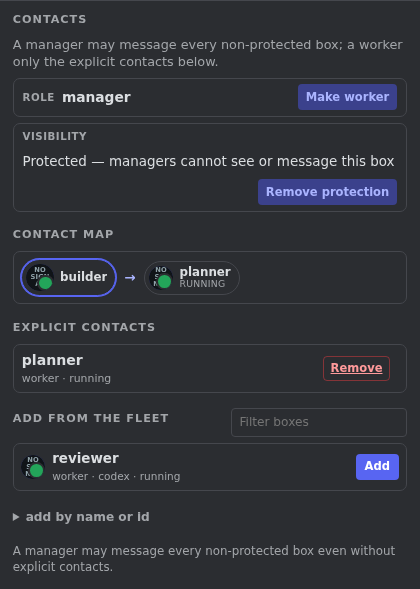
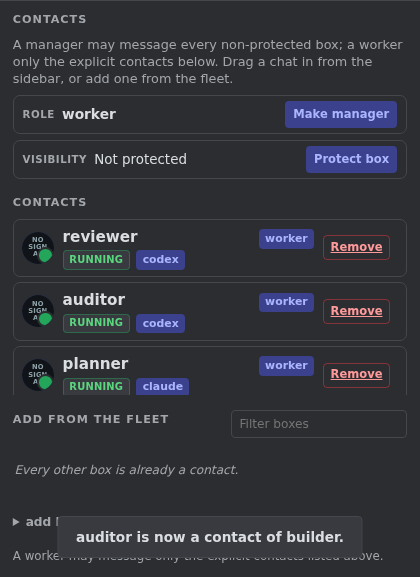
Contacts as a droppable list and Lucide delivery ticks
Right side now mirrors the chats sidebar: contacts render as list rows
(avatar, name, role, state, agent) instead of the chip map. Drag any chat
row from the sidebar onto the open details drawer to add it as a contact
of the box in view; the fleet picker Add button stays as the click path.

Message delivery ticks switch from emoji to inline Lucide icons (clock,
check, check-check, triangle-alert, circle-help).

The browser test drives the list, drag highlight, drop, picker and
context menu, asserts the Lucide tick, and writes a screenshot per case.

Changed region(s): [[0.031, 0.0624, 0.9595, 0.8423], [0.031, 0.8735, 0.9286, 0.9983], [0.5571, 0.6863, 0.9595, 0.8423]]

diff --git a/internal/controller/web/chat.js b/internal/controller/web/chat.js
@@ -675,6 +675,15 @@
    let row=rows.get(box.id);
    if(!row){
     row=document.createElement('li');row.dataset.boxId=box.id;
+    row.draggable=true;
+    row.addEventListener('dragstart',event=>{
+     if(!owner||!selected||selected===box.id){event.preventDefault();return}
+     event.dataTransfer.setData('application/x-vmbox-box',box.id);
+     event.dataTransfer.setData('text/plain',box.name);
+     event.dataTransfer.effectAllowed='copy';
+     row.classList.add('dragging');
+    });
+    row.addEventListener('dragend',()=>row.classList.remove('dragging'));
     row.oncontextmenu=event=>{event.preventDefault();openRowMenu(box,{left:event.clientX,right:event.clientX,bottom:event.clientY+4,top:event.clientY})};
     const meta=document.createElement('div');meta.className='chat-meta';
     const r1=document.createElement('div');r1.className='row1';const name=document.createElement('span');name.className='name';name.textContent=box.name;const state=document.createElement('span');state.className='row-state';const time=document.createElement('time');r1.append(name,time);
@@ -707,7 +716,23 @@
 
  /* ---------- messages ---------- */
  const dayLabel=value=>{const d=new Date(value),now=new Date();if(d.toDateString()===now.toDateString())return 'Today';const y=new Date(now);y.setDate(now.getDate()-1);if(d.toDateString()===y.toDateString())return 'Yesterday';return d.toLocaleDateString([],{day:'numeric',month:'long',year:'numeric'})};
- const stateTicks={queued:'🕐',delivering:'✓',delivered:'✓✓',failed:'⚠ failed',ambiguous:'⚠ maybe failed'};
+ const stateTicks={queued:'queued',delivering:'sent',delivered:'delivered',failed:'failed',ambiguous:'maybe failed'};
+ const stateIconName={queued:'clock',delivering:'check',delivered:'check-check',failed:'alert',ambiguous:'help'};
+ // Inline Lucide icons (24x24, currentColor stroke) so delivery state reads as
+ // iconography instead of emoji glyphs.
+ const lucideShapes={
+  clock:[['circle',{cx:'12',cy:'12',r:'10'}],['polyline',{points:'12 6 12 12 16 14'}]],
+  check:[['path',{d:'M20 6 9 17l-5-5'}]],
+  'check-check':[['path',{d:'M18 6 7 17l-5-5'}],['path',{d:'m22 10-7.5 7.5L13 16'}]],
+  alert:[['path',{d:'m21.73 18-8-14a2 2 0 0 0-3.48 0l-8 14A2 2 0 0 0 4 21h16a2 2 0 0 0 1.73-3'}],['path',{d:'M12 9v4'}],['path',{d:'M12 17h.01'}]],
+  help:[['circle',{cx:'12',cy:'12',r:'10'}],['path',{d:'M9.09 9a3 3 0 0 1 5.83 1c0 2-3 3-3 3'}],['path',{d:'M12 17h.01'}]],
+ };
+ function lucide(name){
+  const svg=document.createElementNS('http://www.w3.org/2000/svg','svg');
+  for(const [key,value] of Object.entries({viewBox:'0 0 24 24',fill:'none',stroke:'currentColor','stroke-width':'2','stroke-linecap':'round','stroke-linejoin':'round','aria-hidden':'true'}))svg.setAttribute(key,value);
+  for(const [tag,attrs] of lucideShapes[name]||[]){const el=document.createElementNS('http://www.w3.org/2000/svg',tag);for(const key in attrs)el.setAttribute(key,attrs[key]);svg.append(el)}
+  return svg;
+ }
  function imageURL(message,image){
   const key=message.id+':'+image.id;
   if(imageURLs.has(key))return Promise.resolve(imageURLs.get(key));
@@ -797,7 +822,14 @@
   const form=questionForm(box,message);if(form)row.append(form);
   const meta=document.createElement('span');meta.className='meta';
   meta.append(Object.assign(document.createElement('time'),{textContent:new Date(message.createdAt).toLocaleTimeString([],{hour:'2-digit',minute:'2-digit'})}));
-  if(mine&&message.state!=='silent'){const ticks=document.createElement('span');ticks.className='ticks'+(message.state==='failed'||message.state==='ambiguous'?' failed':'');ticks.textContent=stateTicks[message.state]||'';meta.append(ticks)}
+  if(mine&&message.state!=='silent'){
+   const ticks=document.createElement('span');ticks.className='ticks'+(message.state==='failed'||message.state==='ambiguous'?' failed':'');
+   ticks.title=stateTicks[message.state]||'';
+   const icon=stateIconName[message.state];
+   if(icon)ticks.append(lucide(icon));
+   if(message.state==='failed'||message.state==='ambiguous')ticks.append(document.createTextNode(message.state==='failed'?'failed':'maybe failed'));
+   meta.append(ticks);
+  }
   row.append(meta);
   const fwd=document.createElement('button');fwd.type='button';fwd.className='fwd';fwd.title='Forward to another box';fwd.textContent='↪';
   fwd.onclick=event=>{event.stopPropagation();openForwardMenu(fwd,message)};
@@ -1248,29 +1280,6 @@
   const known=boxes.get(contact.contactBoxId)||{};
   return {id:contact.contactBoxId||contact.contactName,name:contact.contactName||known.name||'—',state:contact.contactState||known.state||'unknown',role:contact.contactRole||known.role||'worker',defaultAgent:contact.contactAgent||known.defaultAgent||''};
  };
- function graphNode(view,{center=false,contact=false}={}){
-  const node=document.createElement('div');node.className='cg-node'+(center?' cg-center':'');
-  node.append(avatarNode(view,true));
-  const text=document.createElement('span');text.className='cg-text';
-  const label=document.createElement('span');label.className='cg-label';label.textContent=view.name;label.title=view.name;text.append(label);
-  if(contact){const sub=document.createElement('span');sub.className='cg-sub';sub.textContent=view.state||'unknown';text.append(sub)}
-  node.append(text);
-  return node;
- }
- // A slim horizontal chain: the viewed box, an arrow, then its explicit
- // contacts as chips. Overflow stays in the Explicit contacts list below.
- function renderContactGraph(box,contacts){
-  const graph=$('#inspect-contact-graph'),nodes=$('#inspect-contact-graph-nodes');
-  if(!graph||!nodes)return;
-  nodes.replaceChildren();
-  const views=(contacts||[]).map(contactView);
-  const shown=views.slice(0,6);
-  nodes.append(graphNode({id:box.id,name:box.name,state:box.state,role:box.role||'worker',defaultAgent:box.defaultAgent||''},{center:true}));
-  if(views.length){const arrow=document.createElement('span');arrow.className='cg-arrow';arrow.textContent='→';arrow.setAttribute('aria-hidden','true');nodes.append(arrow)}
-  for(const view of shown)nodes.append(graphNode(view,{contact:true}));
-  if(views.length>shown.length){const more=document.createElement('span');more.className='cg-more';more.textContent='+'+(views.length-shown.length)+' more';nodes.append(more)}
-  graph.setAttribute('aria-label',box.name+' can message '+views.length+' contact'+(views.length===1?'':'s')+' shown in the contact map');
- }
  // Every other box in the loaded fleet is one click away from being a contact.
  function renderContactCandidates(box){
   const root=$('#inspect-contact-candidates');if(!root)return;
@@ -1314,18 +1323,25 @@
    $('#inspect-protection-label').textContent=inspectProtected?'Protected — managers cannot see or message this box':'Not protected';
    $('#inspect-toggle-protection').textContent=inspectProtected?'Remove protection':'Protect box';
    list.replaceChildren();
-   if(!contacts.length){const empty=document.createElement('li');empty.className='empty';empty.textContent='No explicit contacts yet.';list.append(empty)}
+   if(!contacts.length){const empty=document.createElement('li');empty.className='empty';empty.textContent='No contacts yet — drag a chat here or add one below.';list.append(empty)}
    for(const contact of contacts){
-    const item=document.createElement('li');
-    const info=document.createElement('div');info.className='contact-info';
-    const name=document.createElement('div');name.className='contact-name';name.textContent=contact.contactName;
-    const meta=document.createElement('div');meta.className='contact-meta';meta.textContent=(contact.contactRole||'worker')+' · '+(contact.contactState||'unknown');
-    info.append(name,meta);item.append(info);
-    const remove=document.createElement('button');remove.type='button';remove.className='linkbtn';remove.textContent='Remove';remove.title='Remove '+contact.contactName;
-    remove.onclick=async()=>{remove.disabled=true;try{await api(boxPath(box.id)+'/contacts/'+encodeURIComponent(contact.contactName),'DELETE');await loadInspectContacts(box)}catch(e){status.textContent=e.message;remove.disabled=false}};
+    const view=contactView(contact);
+    const item=document.createElement('li');item.dataset.state=view.state;
+    item.append(avatarNode(view,true));
+    const meta=document.createElement('div');meta.className='chat-meta';
+    const r1=document.createElement('div');r1.className='row1';
+    const name=document.createElement('span');name.className='name';name.textContent=view.name;
+    const role=document.createElement('span');role.className='agent-badge';role.textContent=view.role||'worker';
+    r1.append(name,role);
+    const r2=document.createElement('div');r2.className='row2';
+    const state=document.createElement('span');state.className='row-state';state.textContent=view.state||'unknown';
+    const agent=document.createElement('span');agent.className='agent-badge';agent.textContent=view.defaultAgent||'agent';
+    r2.append(state,agent);
+    meta.append(r1,r2);item.append(meta);
+    const remove=document.createElement('button');remove.type='button';remove.className='linkbtn';remove.textContent='Remove';remove.title='Remove '+view.name;
+    remove.onclick=async()=>{remove.disabled=true;try{await api(boxPath(box.id)+'/contacts/'+encodeURIComponent(view.name),'DELETE');await loadInspectContacts(box)}catch(e){status.textContent=e.message;remove.disabled=false}};
     item.append(remove);list.append(item);
    }
-   renderContactGraph(box,contacts);
    renderContactCandidates(box);
    status.textContent=role==='manager'?'A manager may message every non-protected box even without explicit contacts.':'A worker may message only the explicit contacts listed above.';
   }catch(e){status.textContent=e.message}
@@ -1335,6 +1351,23 @@
   inspectContacts.hidden=false;
   if(inspectContactsFor===box.id)return;
   inspectContactsFor=box.id;inspectContactCache=null;void loadInspectContacts(box);
+ }
+ // Dropping a sidebar chat anywhere on the open details drawer makes it a
+ // contact of the box in view, the same edge the fleet picker creates.
+ const draggingBox=event=>!!event.dataTransfer&&[...event.dataTransfer.types].includes('application/x-vmbox-box');
+ async function dropContact(event){
+  inspect.classList.remove('contact-drop');
+  const id=event.dataTransfer?.getData('application/x-vmbox-box');
+  const active=boxes.get(selected),target=boxes.get(id);
+  if(!id||!active||!target||active.id===id)return;
+  event.preventDefault();
+  try{await api(boxPath(active.id)+'/contacts','PUT',{},{contact:target.id});toast(target.name+' is now a contact of '+active.name+'.');await loadInspectContacts(active)}
+  catch(e){$('#inspect-contact-status').textContent=e.message}
+ }
+ for(const target of [inspect,inspectContacts]){
+  target.addEventListener('dragover',event=>{if(!owner||!selected||!draggingBox(event))return;event.preventDefault();event.dataTransfer.dropEffect='copy';inspect.classList.add('contact-drop')});
+  target.addEventListener('dragleave',event=>{if(!target.contains(event.relatedTarget))inspect.classList.remove('contact-drop')});
+  target.addEventListener('drop',event=>void dropContact(event));
  }
  $('#inspect-contact-filter').oninput=()=>{const box=boxes.get(selected);if(box&&inspectContactsFor===box.id)renderContactCandidates(box)};
  $('#inspect-contact-form').onsubmit=async event=>{event.preventDefault();const box=boxes.get(selected);if(!box)return;const button=event.target.querySelector('button');button.disabled=true;try{await api(boxPath(box.id)+'/contacts','PUT',{}, {contact:event.target.elements.contact.value.trim()});event.target.reset();await loadInspectContacts(box)}catch(e){$('#inspect-contact-status').textContent=e.message}finally{button.disabled=false}};

diff --git a/internal/controller/web/chat.css b/internal/controller/web/chat.css
@@ -161,6 +161,8 @@ body{max-width:none;margin:0;padding:0;height:100%;
 .msg .meta{display:flex;justify-content:flex-end;align-items:center;gap:.3rem;font-size:.7rem;
   color:var(--ink-soft);margin-top:.1rem;user-select:none}
 .msg .meta .ticks.failed{color:var(--danger)}
+.msg .meta .ticks{display:inline-flex;align-items:center;gap:.18rem}
+.msg .meta .ticks svg{width:.85rem;height:.85rem;flex:none}
 .msg img.chat-image{display:block;max-width:18rem;max-height:14rem;border-radius:var(--radius-sm);margin:.25rem 0}
 /* every attachment and media embed is a real focusable control */
 .media-button{display:block;max-width:100%;border:0;background:none;padding:0;margin:.3rem 0;cursor:zoom-in;border-radius:var(--radius-sm);text-align:left}
@@ -287,10 +289,16 @@ body{max-width:none;margin:0;padding:0;height:100%;
 .contact-policy-card button{margin-left:auto;font:inherit;font-size:.72rem;font-weight:700;color:var(--accent-text);
   background:var(--accent-soft);border:1px solid transparent;border-radius:var(--radius-sm);padding:.22rem .45rem;cursor:pointer}
 .contact-policy-card button:hover{border-color:var(--accent)}
-#inspect-contact-list{list-style:none;margin:0;padding:0;display:flex;flex-direction:column;gap:.3rem;max-height:7rem;overflow-y:auto}
-#inspect-contact-list li{display:flex;align-items:center;gap:.4rem;padding:.32rem .5rem;background:var(--bg2);
+#inspect-contact-list{list-style:none;margin:0;padding:0;display:flex;flex-direction:column;gap:.3rem;max-height:11rem;overflow-y:auto}
+#inspect-contact-list li{display:flex;align-items:center;gap:.55rem;padding:.4rem .5rem;background:var(--bg2);
   border:1px solid var(--line);border-radius:var(--radius);min-width:0}
 #inspect-contact-list li.empty{justify-content:center;color:var(--ink-soft);font-style:italic;background:none;border-style:dashed}
+#inspect-contact-list li .avatar{width:2rem;height:2rem;flex:none}
+#inspect-contact-list li .avatar .initials{font-size:.78rem}
+#inspect-contact-list li .chat-meta .name{font-size:.95rem}
+#inspect-contact-list li[data-state="running"] .row-state{color:var(--ok-text);border-color:color-mix(in srgb,var(--ok) 45%,transparent)}
+#inspect-contact-list li[data-state="failed"] .row-state{color:var(--danger-text);border-color:color-mix(in srgb,var(--danger) 45%,transparent)}
+#inspect-contact-list li[data-state="starting"] .row-state{color:var(--warn-text);border-color:color-mix(in srgb,var(--warn) 50%,transparent)}
 .contact-info{display:flex;flex-direction:column;min-width:0}
 .contact-name{font-size:.88rem;font-weight:700;color:var(--ink);overflow:hidden;text-overflow:ellipsis;white-space:nowrap}
 .contact-meta{font-size:.68rem;color:var(--ink-soft)}
@@ -306,21 +314,11 @@ body{max-width:none;margin:0;padding:0;height:100%;
 #inspect-contacts form button{font:inherit;font-size:.78rem;font-weight:700;background:var(--accent);color:var(--accent-ink);
   border:0;border-radius:var(--radius-sm);padding:.4rem .65rem;cursor:pointer}
 #inspect-contact-status{margin:0;font-size:.74rem;color:var(--ink-soft);line-height:1.35}
-/* ── contact map: the viewed box and its explicit contacts as chips ──── */
-#inspect-contact-map .inspect-block{margin-top:0}
-.contact-graph{border:1px solid var(--line);border-radius:var(--radius);background:var(--bg2);padding:.45rem}
-.contact-graph-nodes{display:flex;align-items:center;flex-wrap:wrap;gap:.35rem .5rem}
-.cg-node{display:flex;align-items:center;gap:.4rem;padding:.24rem .5rem .24rem .28rem;background:var(--surface);
-  border:1px solid var(--line);border-radius:999px;max-width:100%}
-.cg-node .avatar{width:1.5rem;height:1.5rem;flex:none}
-.cg-node .avatar .initials{font-size:.6rem}
-.cg-text{display:flex;flex-direction:column;min-width:0;line-height:1.15}
-.cg-label{font-size:.74rem;font-weight:700;color:var(--ink);max-width:9rem;overflow:hidden;text-overflow:ellipsis;white-space:nowrap}
-.cg-sub{font-size:.58rem;color:var(--ink-soft);text-transform:uppercase;letter-spacing:.03em}
-.cg-center{border-color:var(--accent);box-shadow:0 0 0 1px var(--accent)}
-.cg-center .avatar{width:1.7rem;height:1.7rem}
-.cg-arrow{color:var(--accent-text);font-weight:800}
-.cg-more{color:var(--ink-soft);font-style:italic;font-size:.72rem}
+/* drag a chat from the sidebar onto the drawer to add it as a contact */
+#chat-entries li.dragging{opacity:.45}
+#inspect.contact-drop{border:2px dashed var(--accent);background:color-mix(in srgb,var(--accent) 8%,var(--surface))}
+#inspect.contact-drop #inspect-contacts::after{content:'Drop a chat to add it as a contact';display:block;
+  text-align:center;color:var(--accent-text);font-weight:700;font-size:.78rem;padding:.4rem}
 /* ── add from the fleet: every other box as a one-click reference ───── */
 .contact-picker-head{display:flex;align-items:center;gap:.5rem;justify-content:space-between}
 .contact-picker-head input{flex:1 1 7rem;max-width:11rem;min-width:0;font:inherit;font-size:.76rem;color:var(--ink);

diff --git a/internal/controller/web/chat.html b/internal/controller/web/chat.html
@@ -95,7 +95,7 @@
      </section>
      <section id="inspect-contacts" hidden>
       <header class="inspect-block-head"><h3>Contacts</h3></header>
-      <p class="inspect-lede">A manager may message every non-protected box; a worker only the explicit contacts below.</p>
+      <p class="inspect-lede">A manager may message every non-protected box; a worker only the explicit contacts below. Drag a chat in from the sidebar, or add one from the fleet.</p>
       <div class="contact-policy">
        <div class="contact-policy-card">
         <span class="policy-label">Role</span>
@@ -108,14 +108,8 @@
         <button id="inspect-toggle-protection" type="button">Protect box</button>
        </div>
       </div>
-      <div id="inspect-contact-map" class="inspect-block">
-       <h3>Contact map</h3>
-       <div id="inspect-contact-graph" class="contact-graph" role="img" aria-label="Contact map of this box and its explicit contacts">
-        <div id="inspect-contact-graph-nodes" class="contact-graph-nodes"></div>
-       </div>
-      </div>
       <div class="inspect-block">
-       <h3>Explicit contacts</h3>
+       <h3>Contacts</h3>
        <ul id="inspect-contact-list"></ul>
       </div>
       <div class="inspect-block">
